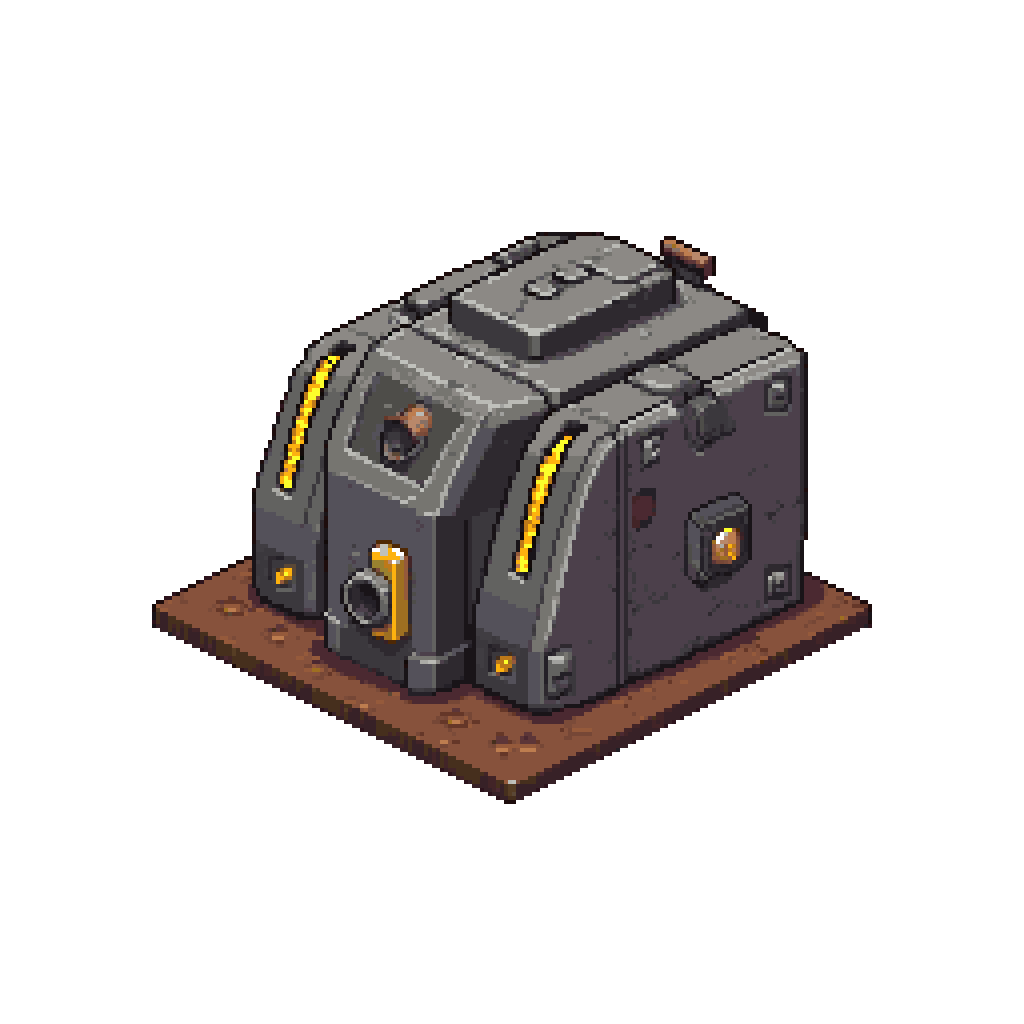
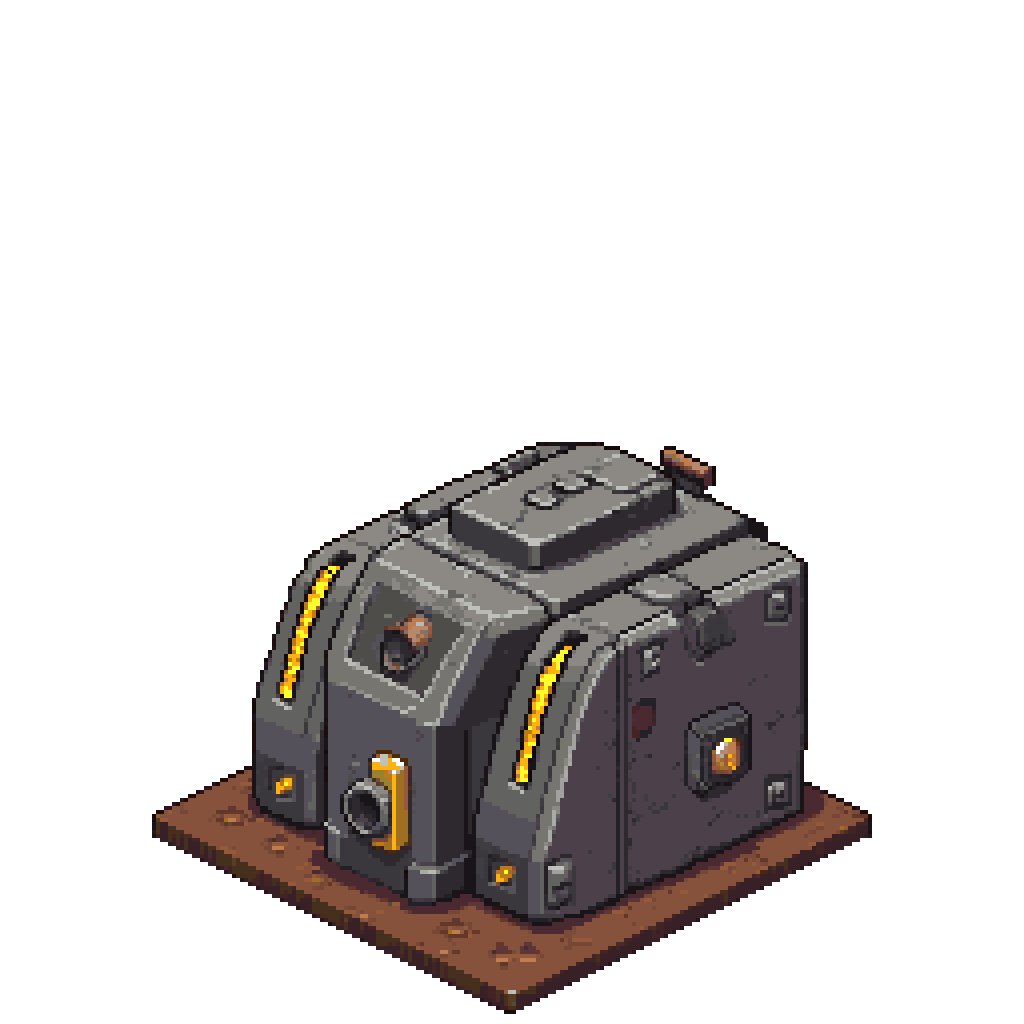
Implement turret interaction enhancements: Added new reducers for moving items between player inventory and turrets, including quick moves and item transfers. Updated turret collision offsets and visual configurations for improved gameplay consistency. Enhanced container utility functions to accommo

diff --git a/client/src/utils/containerUtils.ts b/client/src/utils/containerUtils.ts
@@ -110,7 +110,8 @@ export function getDragDropReducerNames(containerType: ContainerType, entity?: C
     
     // Determine if this is a fuel container (different naming pattern)
     // Note: Fumarole is HYBRID - uses storage pattern for moveFromPlayer, fuel pattern for moveToPlayer
-    const isFuelContainer = ['campfire', 'furnace', 'barbecue', 'lantern'].includes(containerType);
+    // Note: Turret uses same pattern as fuel containers for moveToPlayer (move_item_from_turret_to_player_slot)
+    const isFuelContainer = ['campfire', 'furnace', 'barbecue', 'lantern', 'turret'].includes(containerType);
     const isFumarole = containerType === 'fumarole';
     
     return {
@@ -144,7 +145,7 @@ export function getContainerTypeFromSlotType(slotType: string): ContainerType | 
         'barbecue_fuel': 'barbecue',
         'fumarole': 'fumarole',
         'lantern_fuel': 'lantern',
-        'turret_fuel': 'turret',
+        'turret_ammo': 'turret', // Fixed: was 'turret_fuel' but config uses 'turret_ammo'
         'wooden_storage_box': 'wooden_storage_box',
         'player_corpse': 'player_corpse',
         'stash': 'stash',

diff --git a/client/src/utils/renderers/playerCorpseRenderingUtils.ts b/client/src/utils/renderers/playerCorpseRenderingUtils.ts
@@ -134,6 +134,11 @@ export function renderPlayerCorpse({
     isAimingThrow: false, // Corpses are not aiming throws
     hasSeenMemoryShardTutorial: false, // Corpses don't need tutorials
     hasSeenSovaIntro: false, // Corpses don't need tutorials
+    hasSeenTutorialHint: false, // Corpses don't need tutorials
+    hasSeenHostileEncounterTutorial: false, // Corpses don't need tutorials
+    hasSeenRuneStoneTutorial: false, // Corpses don't need tutorials
+    hasSeenAlkStationTutorial: false, // Corpses don't need tutorials
+    hasSeenCrashedDroneTutorial: false, // Corpses don't need tutorials
     pvpEnabled: false, // Corpses can't engage in PvP
     pvpEnabledUntil: undefined, // No PvP timer for corpses
     lastPvpCombatTime: undefined, // No PvP combat time for corpses

diff --git a/client/src/utils/clientCollision.ts b/client/src/utils/clientCollision.ts
@@ -1074,7 +1074,7 @@ export const COLLISION_OFFSETS = {
   HOMESTEAD_HEARTH: { x: 0, y: -72.5 }, // Homestead hearth collision offset (matches server-side HEARTH_COLLISION_Y_OFFSET)
   BASALT_COLUMN: { x: 0, y: -40 }, // Basalt column collision offset
   WARD: { x: 0, y: -80 }, // Ward collision offset (matches server-side WARD_COLLISION_Y_OFFSET)
-  TURRET: { x: 0, y: -80 }, // Turret collision offset (matches server-side TURRET_COLLISION_Y_OFFSET)
+  TURRET: { x: 0, y: -60 }, // Turret collision offset (matches server-side TURRET_COLLISION_Y_OFFSET)
   // STORM_PILE removed - storms now spawn HarvestableResources and DroppedItems directly
   LIVING_CORAL: { x: 0, y: -60 }, // Living coral collision offset (doubled to match visual size)
 } as const;

diff --git a/client/src/utils/entityVisualConfig.ts b/client/src/utils/entityVisualConfig.ts
@@ -262,10 +262,10 @@ export const ENTITY_VISUAL_CONFIG: Record<string, EntityVisualBounds> = {
   
   turret: {
     centerOffsetX: 0,
-    centerOffsetY: -134,  // Visual center relative to posY (same as wards, 256x256 sprite)
+    centerOffsetY: -62,  // Visual center relative to posY (same as wards, 256x256 sprite)
     width: 200,           // Interaction box width
-    height: 220,          // Interaction box height
-    placementYOffset: 0,  // Cursor at center of preview (server adds +134)
+    height: 260,          // Interaction box height
+    placementYOffset: -92,  // Cursor at center of preview (server adds +134)
     spriteWidth: 256,
     spriteHeight: 256,
   },

diff --git a/client/src/hooks/useContainer.ts b/client/src/hooks/useContainer.ts
@@ -151,6 +151,7 @@ export function useContainer(props: UseContainerProps): UseContainerResult {
             barbecues,
             fumaroles,
             lanterns,
+            turrets,
             woodenStorageBoxes,
             playerCorpses,
             stashes,

diff --git a/server/src/turret.rs b/server/src/turret.rs
@@ -395,6 +395,48 @@ pub fn quick_move_from_turret(ctx: &ReducerContext, turret_id: u32, slot_index: 
     Ok(())
 }
 
+/// Quick move item from player inventory/hotbar TO turret
+#[spacetimedb::reducer]
+pub fn quick_move_to_turret(
+    ctx: &ReducerContext,
+    turret_id: u32,
+    item_instance_id: u64,
+) -> Result<(), String> {
+    let (_player, mut turret) = validate_turret_interaction(ctx, turret_id)?;
+    
+    // Validate ammo type based on turret_type
+    let item = ctx.db.inventory_item().instance_id().find(&item_instance_id)
+        .ok_or_else(|| "Item not found.".to_string())?;
+    let item_def = ctx.db.item_definition().id().find(&item.item_def_id)
+        .ok_or_else(|| "Item definition not found.".to_string())?;
+    
+    // Tallow Steam Turret only accepts Tallow
+    if turret.turret_type == TURRET_TYPE_TALLOW_STEAM {
+        if item_def.name != "Tallow" {
+            return Err("Tallow Steam Turret only accepts Tallow as ammo.".to_string());
+        }
+    }
+    
+    handle_quick_move_to_container(ctx, &mut turret, item_instance_id)?;
+    ctx.db.turret().id().update(turret);
+    Ok(())
+}
+
+/// Move item FROM turret slot TO a specific player inventory/hotbar slot
+#[spacetimedb::reducer]
+pub fn move_item_from_turret_to_player_slot(
+    ctx: &ReducerContext,
+    turret_id: u32,
+    source_slot_index: u8,
+    target_slot_type: String,
+    target_slot_index: u32,
+) -> Result<(), String> {
+    let (_player, mut turret) = validate_turret_interaction(ctx, turret_id)?;
+    handle_move_from_container_slot(ctx, &mut turret, source_slot_index, target_slot_type, target_slot_index)?;
+    ctx.db.turret().id().update(turret);
+    Ok(())
+}
+
 /// Pickup turret (must be empty and not destroyed)
 #[spacetimedb::reducer]
 pub fn pickup_turret(ctx: &ReducerContext, turret_id: u32) -> Result<(), String> {

diff --git a/server/src/lib.rs b/server/src/lib.rs
@@ -332,6 +332,7 @@ pub use lantern::{
 // Re-export turret reducers for client bindings
 pub use turret::{
     place_turret, move_item_to_turret, quick_move_from_turret,
+    quick_move_to_turret, move_item_from_turret_to_player_slot,
     pickup_turret, interact_with_turret
 };
 
